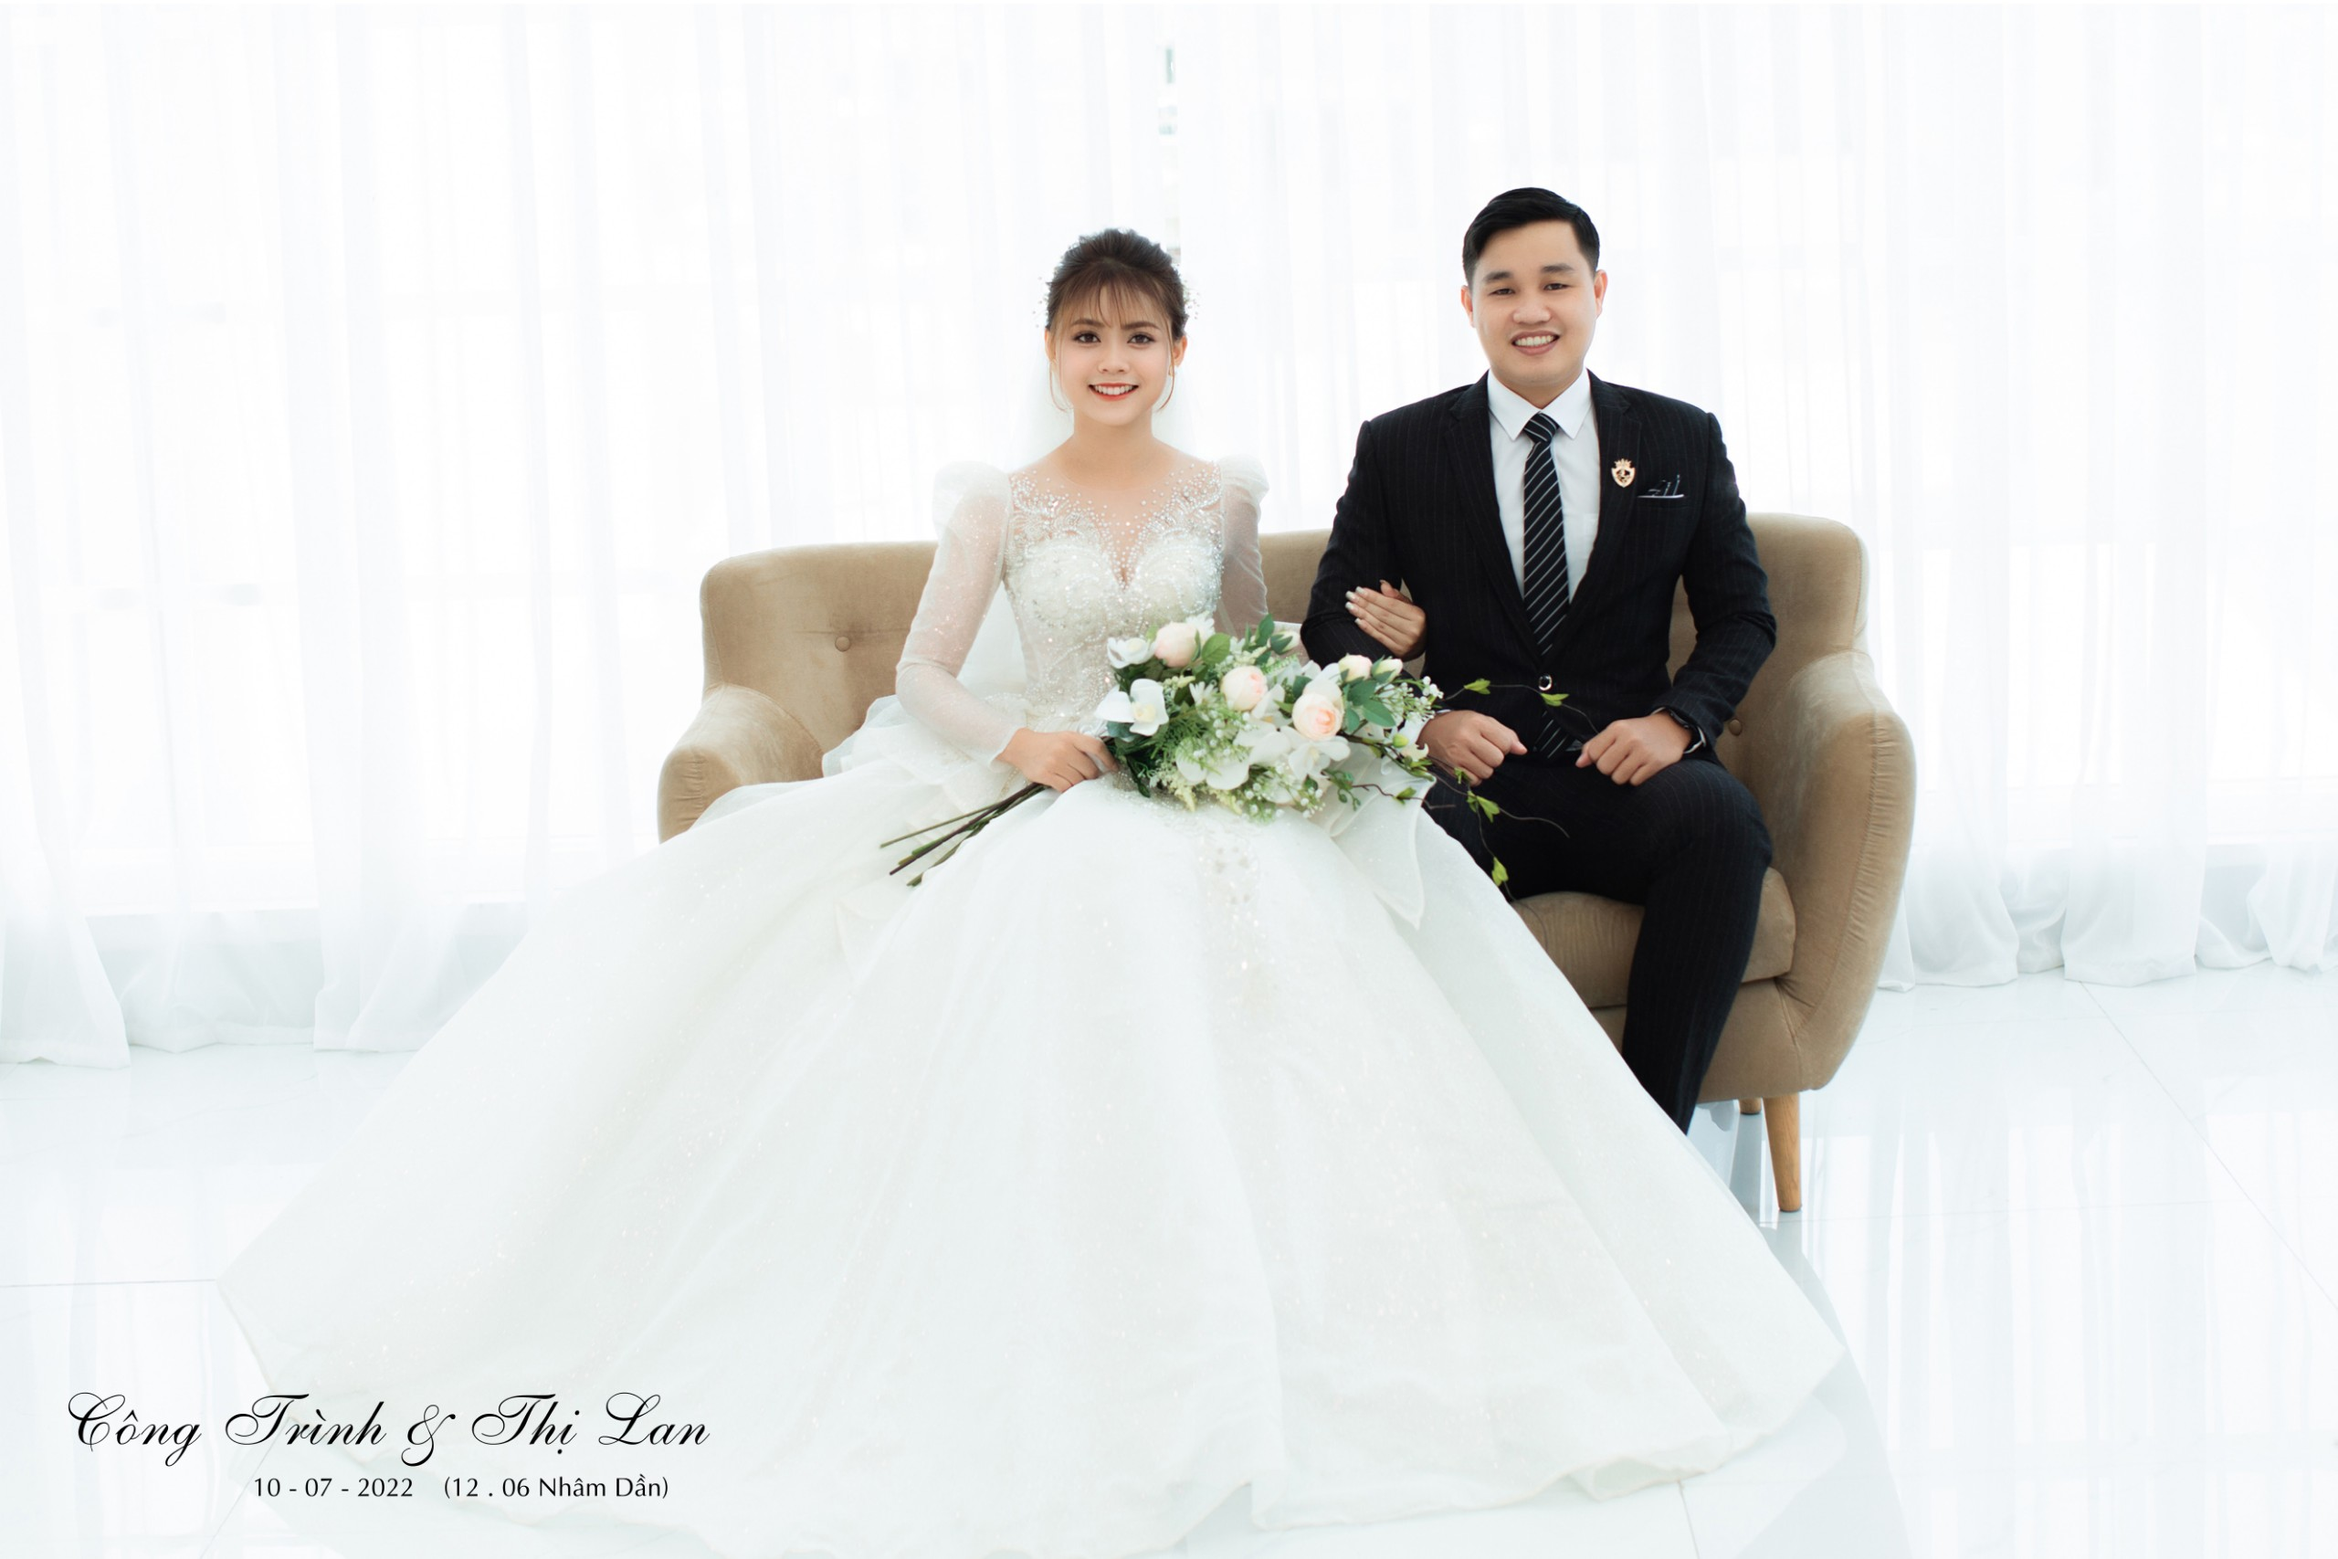
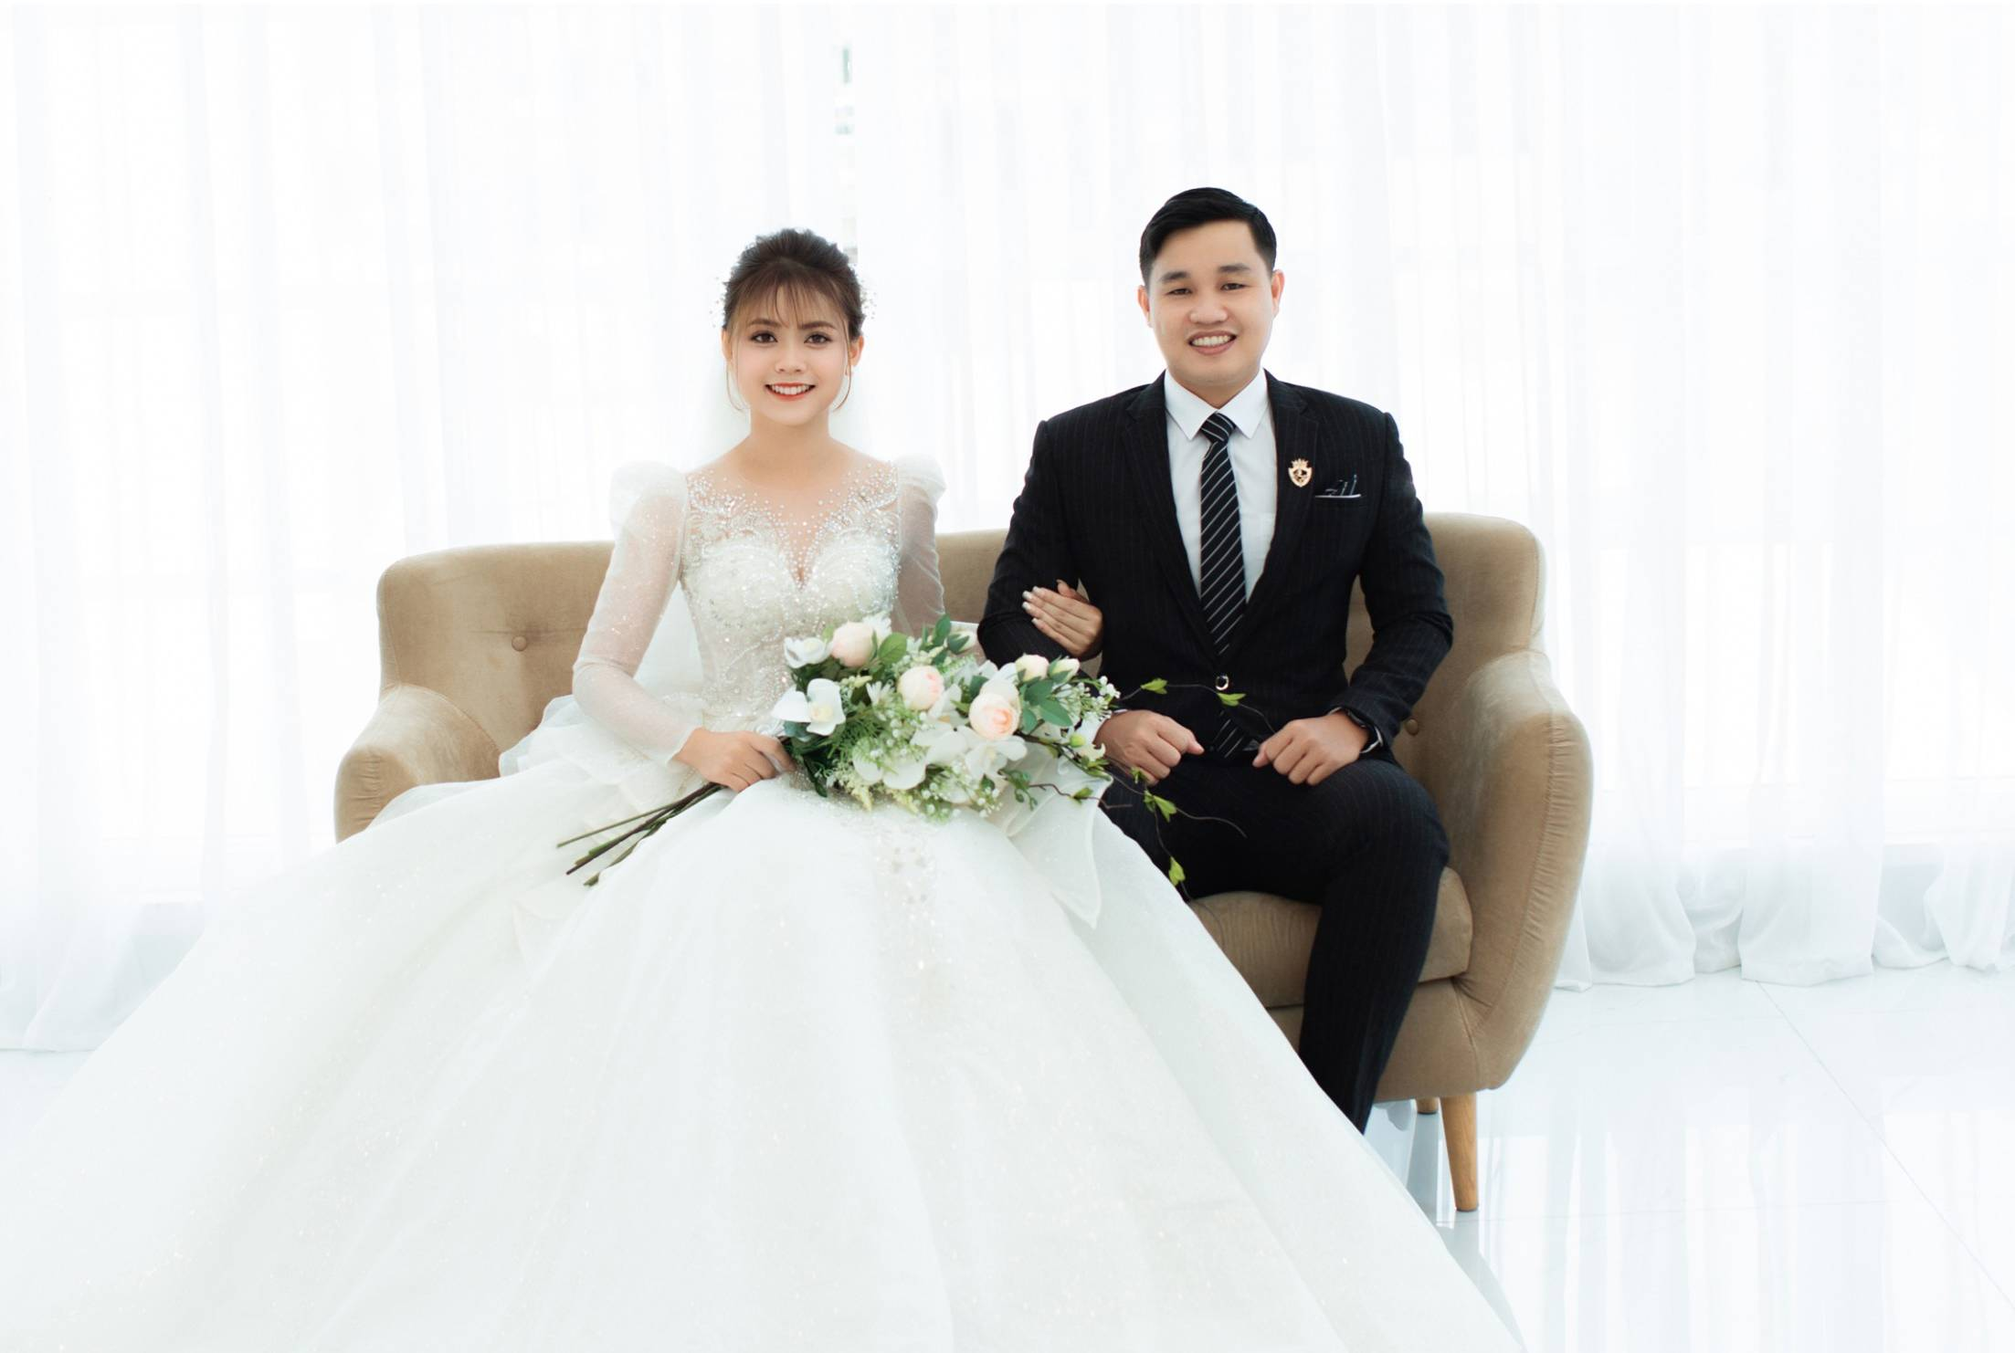
update gallery

diff --git a/index.html b/index.html
@@ -72,17 +72,17 @@
             <div class="row">
 
               <div class="col-md-offset-3 col-md-6 animation delay1 fadeInUp" style="color: #f03a4e;">
-                <div id="invited">You're Invited</div>
+                <div id="invited" style="color:white">You're Invited</div>
                 <div class="banner-text withlove medium light">
-                  <h2 style="color:#7e5e27">WE ARE GETTING MARRIED</h2>
+                  <h2 style="color:white">WE ARE GETTING MARRIED</h2>
                 </div>
-                <div id="banner-date">--- 03 / 07 / 2022 ---</div>
+                <div id="banner-date" style="color:white">--- 03 / 07 / 2022 ---</div>
               </div>
             </div>
 
             <div class="row">
               <div class="col-md-offset-3 col-md-6">
-                <div id="date-countdown" style="color: #7e5e27" class="circle-countdown animation fadeInUp"></div>
+                <div id="date-countdown" class="circle-countdown animation fadeInUp"></div>
               </div>
             </div>
           </div>
@@ -94,18 +94,17 @@
 
     <!-- MAIN SLIDER IMAGES -->
 
-    <ul class="slides">
-      <li>
+    <!-- <ul class="slides">
+      <li> -->
         <!-- SLIDE IMAGE -->
         <div data-stellar-ratio="0.5" class="slide-image" style="
-              background-image: url(images/cover-page.jpg);
-              background-position: top center;
-            "></div>
-
+          background-image: url(images/cover-page.jpg);
+          background-position: top center;
+        "></div>
         <!-- SLIDE OVERLAY -->
-        <div class="slide-overlay" style="opacity: 0"></div>
-      </li>
-    </ul>
+        <!-- <div class="slide-overlay" style="opacity: 0"></div> -->
+      <!-- </li>
+    </ul> -->
     <!-- END of MAIN SLIDER IMAGES -->
 
     <!-- NAVIGATION -->
@@ -331,7 +330,7 @@
     </section>
 
     <!-- PHOTO DIVIDER -->
-    <section id="photo-divider">
+    <section class="display-xs-none" id="photo-divider">
       <div class="image-divider fixed-height" style="
             background-image: url(images/parallax-image-3.jpg);
             height: 600px;
@@ -623,7 +622,7 @@
             <!--PHOTO-ITEM-->
             <div class="photo-item frame-border animation fadeIn">
               <!--PHOTO-->
-              <img src="images/gallery/1.jpg" alt="" class="hover-animation image-zoom-rotate" />
+              <img src="images/gallery/15.png" alt="" class="hover-animation image-zoom-rotate" />
 
               <!--PHOTO OVERLAY-->
               <div class="layer wh100 hidden-black-overlay hover-animation fade-in"></div>
@@ -633,7 +632,7 @@
               <div class="layer wh100 hidden-link hover-animation delay1 fade-in">
                 <div class="alignment">
                   <div class="v-align center-middle">
-                    <a href="images/gallery/1.jpg" class="magnific-zoom-gallery" title="Attachment-1">
+                    <a href="images/gallery/15.png" class="magnific-zoom-gallery">
                       <div class="de-icon circle light medium-size inline">
                         <i class="de-icon-zoom-in"></i>
                       </div>
@@ -662,7 +661,7 @@
               <div class="layer wh100 hidden-link hover-animation delay1 fade-in">
                 <div class="alignment">
                   <div class="v-align center-middle">
-                    <a href="images/gallery/2.jpg" class="magnific-zoom-gallery" title="Attachment-2">
+                    <a href="images/gallery/2.jpg" class="magnific-zoom-gallery">
                       <div class="de-icon circle light medium-size inline">
                         <i class="de-icon-zoom-in"></i>
                       </div>
@@ -681,7 +680,7 @@
             <!--PHOTO-ITEM-->
             <div class="photo-item frame-border animation fadeIn">
               <!--PHOTO-->
-              <img src="images/gallery/3.jpg" alt="" class="hover-animation image-zoom-rotate" />
+              <img src="images/gallery/13.png" alt="" class="hover-animation image-zoom-rotate" />
 
               <!--PHOTO OVERLAY-->
               <div class="layer wh100 hidden-black-overlay hover-animation fade-in"></div>
@@ -691,7 +690,7 @@
               <div class="layer wh100 hidden-link hover-animation delay1 fade-in">
                 <div class="alignment">
                   <div class="v-align center-middle">
-                    <a href="images/gallery/3.jpg" class="magnific-zoom-gallery" title="Attachment-3">
+                    <a href="images/gallery/13.png" class="magnific-zoom-gallery">
                       <div class="de-icon circle light medium-size inline">
                         <i class="de-icon-zoom-in"></i>
                       </div>
@@ -710,7 +709,7 @@
             <!--PHOTO-ITEM-->
             <div class="photo-item frame-border animation fadeIn">
               <!--PHOTO-->
-              <img src="images/gallery/4.jpg" alt="" class="hover-animation image-zoom-rotate" />
+              <img src="images/gallery/6.jpg" alt="" class="hover-animation image-zoom-rotate" />
 
               <!--PHOTO OVERLAY-->
               <div class="layer wh100 hidden-black-overlay hover-animation fade-in"></div>
@@ -720,7 +719,7 @@
               <div class="layer wh100 hidden-link hover-animation delay1 fade-in">
                 <div class="alignment">
                   <div class="v-align center-middle">
-                    <a href="images/gallery/4.jpg" class="magnific-zoom-gallery" title="Attachment-4">
+                    <a href="images/gallery/6.jpg" class="magnific-zoom-gallery">
                       <div class="de-icon circle light medium-size inline">
                         <i class="de-icon-zoom-in"></i>
                       </div>
@@ -739,7 +738,7 @@
             <!--PHOTO-ITEM-->
             <div class="photo-item frame-border animation fadeIn">
               <!--PHOTO-->
-              <img src="images/gallery/5.jpg" alt="" class="hover-animation image-zoom-rotate" />
+              <img src="images/gallery/3.jpg" alt="" class="hover-animation image-zoom-rotate" />
 
               <!--PHOTO OVERLAY-->
               <div class="layer wh100 hidden-black-overlay hover-animation fade-in"></div>
@@ -749,7 +748,7 @@
               <div class="layer wh100 hidden-link hover-animation delay1 fade-in">
                 <div class="alignment">
                   <div class="v-align center-middle">
-                    <a href="images/gallery/5.jpg" class="magnific-zoom-gallery" title="Attachment-5">
+                    <a href="images/gallery/3.jpg" class="magnific-zoom-gallery">
                       <div class="de-icon circle light medium-size inline">
                         <i class="de-icon-zoom-in"></i>
                       </div>
@@ -768,7 +767,7 @@
             <!--PHOTO-ITEM-->
             <div class="photo-item frame-border animation fadeIn">
               <!--PHOTO-->
-              <img src="images/gallery/6.jpg" alt="" class="hover-animation image-zoom-rotate" />
+              <img src="images/gallery/5.jpg" alt="" class="hover-animation image-zoom-rotate" />
 
               <!--PHOTO OVERLAY-->
               <div class="layer wh100 hidden-black-overlay hover-animation fade-in"></div>
@@ -778,7 +777,7 @@
               <div class="layer wh100 hidden-link hover-animation delay1 fade-in">
                 <div class="alignment">
                   <div class="v-align center-middle">
-                    <a href="images/gallery/6.jpg" class="magnific-zoom-gallery" title="Attachment-6">
+                    <a href="images/gallery/5.jpg" class="magnific-zoom-gallery">
                       <div class="de-icon circle light medium-size inline">
                         <i class="de-icon-zoom-in"></i>
                       </div>
@@ -807,7 +806,7 @@
               <div class="layer wh100 hidden-link hover-animation delay1 fade-in">
                 <div class="alignment">
                   <div class="v-align center-middle">
-                    <a href="images/gallery/7.jpg" class="magnific-zoom-gallery" title="Attachment-7">
+                    <a href="images/gallery/7.jpg" class="magnific-zoom-gallery">
                       <div class="de-icon circle light medium-size inline">
                         <i class="de-icon-zoom-in"></i>
                       </div>
@@ -820,13 +819,14 @@
             <!--END of PHOTO-ITEM-->
           </div>
           <!--END of GALLERY-ITEM-7-->
-
+        </div>
+        <div class="row">
           <!--GALLERY-ITEM-8-->
           <div class="col-md-4">
             <!--PHOTO-ITEM-->
             <div class="photo-item frame-border animation fadeIn">
               <!--PHOTO-->
-              <img src="images/gallery/8.jpg" alt="" class="hover-animation image-zoom-rotate" />
+              <img src="images/gallery/12.jpg" alt="" class="hover-animation image-zoom-rotate" />
 
               <!--PHOTO OVERLAY-->
               <div class="layer wh100 hidden-black-overlay hover-animation fade-in"></div>
@@ -836,7 +836,7 @@
               <div class="layer wh100 hidden-link hover-animation delay1 fade-in">
                 <div class="alignment">
                   <div class="v-align center-middle">
-                    <a href="images/gallery/8.jpg" class="magnific-zoom-gallery" title="Attachment-8">
+                    <a href="images/gallery/12.jpg" class="magnific-zoom-gallery">
                       <div class="de-icon circle light medium-size inline">
                         <i class="de-icon-zoom-in"></i>
                       </div>
@@ -865,7 +865,36 @@
               <div class="layer wh100 hidden-link hover-animation delay1 fade-in">
                 <div class="alignment">
                   <div class="v-align center-middle">
-                    <a href="images/gallery/9.jpg" class="magnific-zoom-gallery" title="Attachment-9">
+                    <a href="images/gallery/9.jpg" class="magnific-zoom-gallery">
+                      <div class="de-icon circle light medium-size inline">
+                        <i class="de-icon-zoom-in"></i>
+                      </div>
+                    </a>
+                  </div>
+                </div>
+              </div>
+              <!--END of ICON LINK-->
+            </div>
+            <!--END of PHOTO-ITEM-->
+          </div>
+          <!--END of GALLERY-ITEM-9-->
+
+          <!--GALLERY-ITEM-9-->
+          <div class="col-md-4">
+            <!--PHOTO-ITEM-->
+            <div class="photo-item frame-border animation fadeIn">
+              <!--PHOTO-->
+              <img src="images/gallery/14.png" alt="" class="hover-animation image-zoom-rotate" />
+
+              <!--PHOTO OVERLAY-->
+              <div class="layer wh100 hidden-black-overlay hover-animation fade-in"></div>
+              <!--END of PHOTO OVERLAY-->
+
+              <!--ICON LINK-->
+              <div class="layer wh100 hidden-link hover-animation delay1 fade-in">
+                <div class="alignment">
+                  <div class="v-align center-middle">
+                    <a href="images/gallery/14.png" class="magnific-zoom-gallery">
                       <div class="de-icon circle light medium-size inline">
                         <i class="de-icon-zoom-in"></i>
                       </div>
@@ -893,12 +922,11 @@
       <div class="alignment">
         <div class="v-align center-bottom">
           <div class="container">
-            <div class="row" style="padding-bottom: 40px">
+            <div class="row" style="padding-bottom: 80px">
               <div class="col-md-12">
                 <div class="animation fadeInUp">
                   <div id="thank-you">
-                    <div id="thank">Thank</div>
-                    <div id="you">You</div>
+                    <div id="thank">Thank You</div>
                   </div>
                 </div>
 
@@ -909,7 +937,7 @@
                   <span class="white-line"></span>
                 </div>
 
-                <div id="footer-couple-name" class="animation delay1 fadeInUp">
+                <div id="footer-couple-name" class="circle-countdown animation fadeInUp">
                   CONG TRINH & THI LAN
                 </div>
               </div>

diff --git a/css/style.css b/css/style.css
@@ -2739,9 +2739,6 @@ footer .image-divider.fixed-height {
 	text-align: center;
 	color: #FFF;
 	font-family: 'Pacifico';
-	-ms-transform: rotate(-10deg);
-	-webkit-transform: rotate(-10deg);
-	transform: rotate(-10deg);
 	padding-right: 30px;
 	margin-top: 40px;
 	margin-bottom: 25px;
@@ -3999,9 +3996,6 @@ p{
 			text-align: center;
 			color: #FFF;
 			font-family: 'Pacifico';
-			-ms-transform: rotate(-10deg);
-			-webkit-transform: rotate(-10deg);
-			transform: rotate(-10deg);
 			padding-right: 30px;
 			margin-top: 40px;
 			margin-bottom: 25px;
@@ -4024,5 +4018,16 @@ p{
 			letter-spacing: 3px;
 			margin-top: 10px;
 		}
+	}
+}
+
+@media screen and (max-width: 576px) {
+	.display-xs-none {
+		display: none;
+	}
+}
+@media screen and (min-width: 577px) {
+	.display-sm-none {
+		display: none;
 	}
 }
